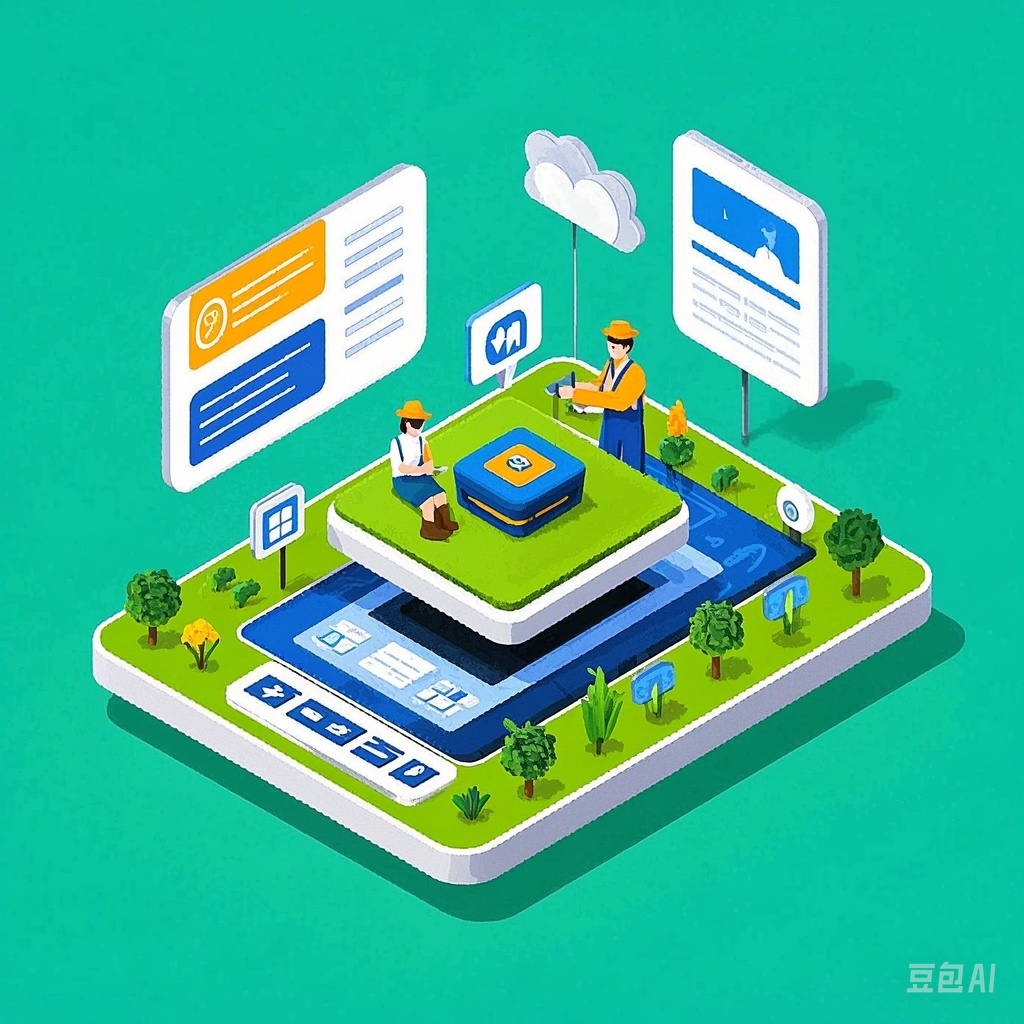
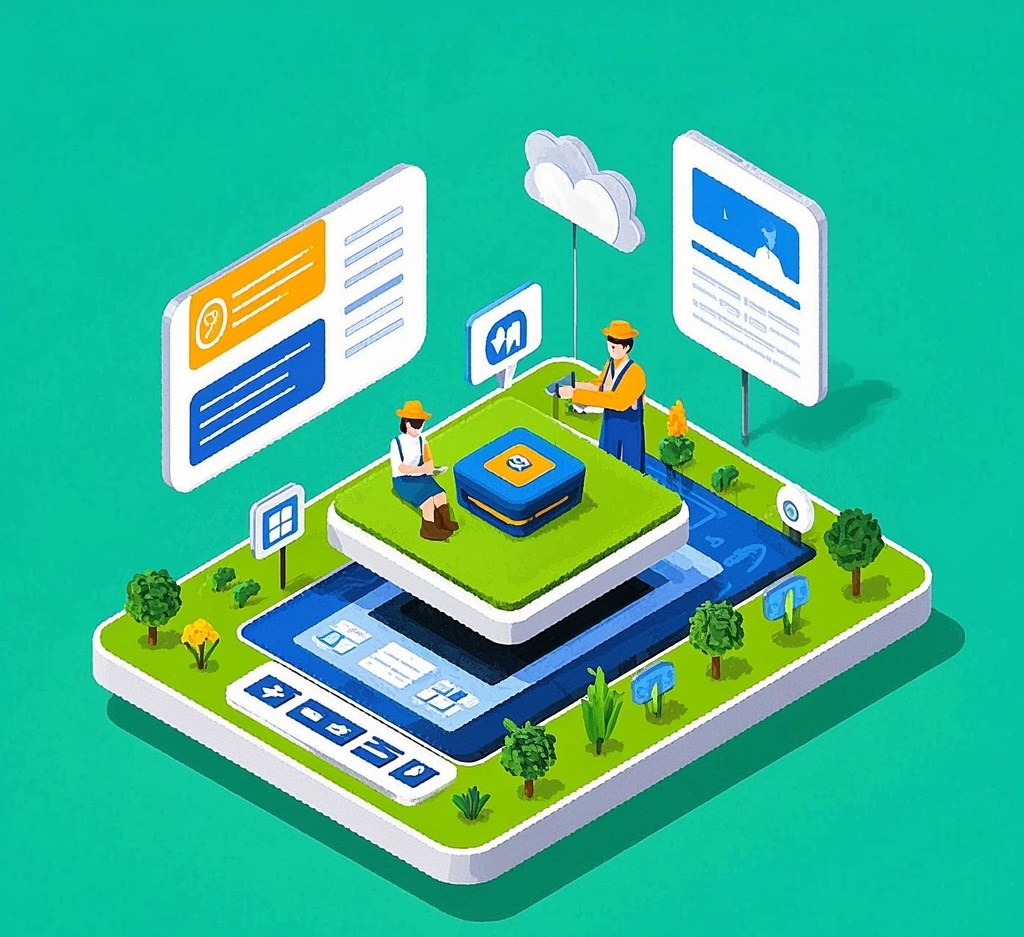
change index contents 3

diff --git a/src/index.html b/src/index.html
@@ -161,7 +161,7 @@
 							<div class="col-md-6">
 								<div class="featured-content">
 									<h2 data-i18n="drone_training_title">农业无人机培训中心</h2>
-									<p data-i18n="drone_training_desc">与中国农业大学无人机系统研究院深度合作，根据中国民用航空局与农业农村部联合发布的《农用无人驾驶航空器操控员培训管理规定（试行）》，自2025年1月23日起，我们提供符合新规的全方位培训课程，包含理论、基础操作和田间作业三大科目。培训合格后，学员可获得农用无人机操作证，培训费用1500元/位。</p>
+									<p data-i18n="drone_training_desc">与中国农业大学无人机系统研究院深度合作，我们提供符合新规的全方位培训课程，包含理论、基础操作和田间作业三大科目。</p>
 									<div class="row stats">
 										<div class="col-md-4">
 											<div class="stat-item">
@@ -223,7 +223,7 @@
 								</div>
 							</div>
 							<div class="col-md-6">
-								<img class="img-responsive" src="img/smart-machinery.png" alt="智能农机">
+								<img class="img-responsive" src="img/smart-machinery.jpg" alt="智能农机">
 							</div>
 						</div>
 					</div>
@@ -327,18 +327,6 @@
 						<p>
 							<i class="fa fa-envelope"></i> postmaster@aginno.com.cn<br>
 						</p>
-					</div>
-				</div>
-				<div class="col-lg-3">
-					<div class="widget">
-						<h5 class="widgetheading">快速链接</h5>
-						<ul class="link-list">
-							<li><a href="#">最新动态</a></li>
-							<li><a href="#">服务条款</a></li>
-							<li><a href="#">隐私政策</a></li>
-							<li><a href="#">加入我们</a></li>
-							<li><a href="#">联系我们</a></li>
-						</ul>
 					</div>
 				</div>
 				<div class="col-lg-3">
